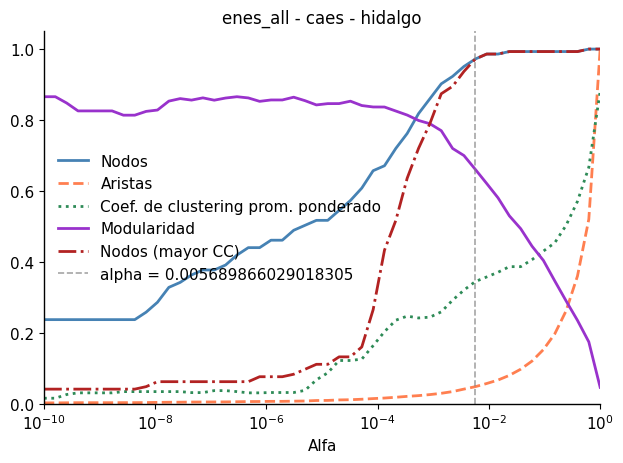
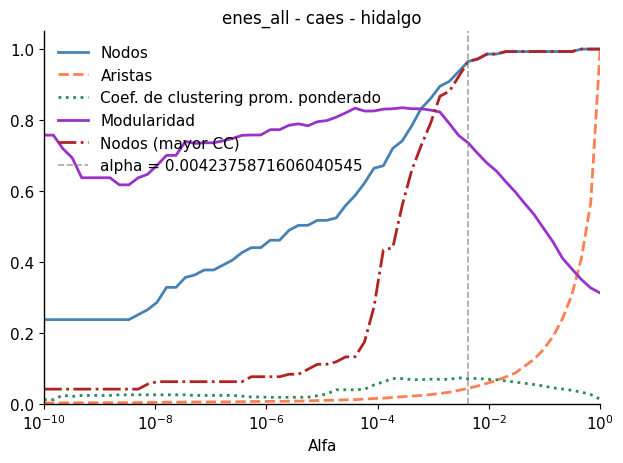
Fix alpha sensitivity script and disparity graph handling

diff --git a/src/graph_construction.py b/src/graph_construction.py
@@ -269,13 +269,13 @@ def get_projection_positions(
 	method: str = "auto",
 ) -> dict:
 	"""Calculate node positions for the projection graph using a force-directed layout.
-	
+
 	Handles both undirected and directed graphs (converts directed to undirected as needed).
 	"""
 	# Convert to undirected if needed (e.g., for directed graphs from disparity_filter_backbone)
 	if isinstance(graph, nx.DiGraph):
 		graph = nx.to_undirected(graph)
-	
+
 	if not nx.is_connected(graph):
 		# Get the largest connected component for layout
 		largest_cc = max(nx.connected_components(graph), key=len)
@@ -317,11 +317,8 @@ def disparity_alpha_endpoint(k: int, strength: float, weight: float) -> float:
 	return float((1.0 - p) ** (k - 1))
 
 
-def get_disparity_graph(
-	graph_in: nx.Graph
-) -> nx.DiGraph:
-	"""Return a disparity backbone as a directed graph.
-	"""
+def get_disparity_graph(graph_in: nx.Graph) -> nx.DiGraph:
+	"""Return a disparity backbone as a directed graph."""
 	if graph_in.number_of_nodes() == 0:
 		return nx.DiGraph()
 
@@ -340,8 +337,8 @@ def get_disparity_graph(
 		a_uv = disparity_alpha_endpoint(degree.get(u, 0), strength.get(u, 0.0), w_uv)
 		a_vu = disparity_alpha_endpoint(degree.get(v, 0), strength.get(v, 0.0), w_uv)
 
-		graph_out.add_edge(u, v, alpha=a_uv)
-		graph_out.add_edge(v, u, alpha=a_vu)
+		graph_out.add_edge(u, v, alpha=a_uv, weight=w_uv)
+		graph_out.add_edge(v, u, alpha=a_vu, weight=w_uv)
 
 	return graph_out
 
@@ -355,11 +352,11 @@ def disparity_filter_backbone(
 ) -> nx.Graph:
 	"""Return a disparity-filtered backbone as an undirected graph.
 
-	For each edge in the input undirected graph, the significance of 
+	For each edge in the input undirected graph, the significance of
 	individual endpoints is checked:
 	- Edge u -> v is significant if a_uv < alpha
 	- Edge v -> u is significant if a_vu < alpha
-	
+
 	With mode="or", at least one direction must pass.
 	With mode="and", both directions must pass.
 	"""
@@ -367,7 +364,7 @@ def disparity_filter_backbone(
 		raise ValueError("mode must be 'or' or 'and'.")
 	if alpha <= 0 or alpha > 1:
 		raise ValueError("alpha must be in (0, 1].")
-	
+
 	if original_graph is None and disparity_graph is None:
 		raise ValueError("Provide at least one of original_graph or disparity_graph.")
 
@@ -383,19 +380,24 @@ def disparity_filter_backbone(
 
 	for u, v in disparity_graph.to_undirected().edges():
 		# Determine which directions pass the threshold
-		u_to_v_passes = disparity_graph.get_edge_data(u, v, default={}).get("alpha", 1) < alpha
-		v_to_u_passes = disparity_graph.get_edge_data(v, u, default={}).get("alpha", 1) < alpha
+		u_to_v_passes = (
+			disparity_graph.get_edge_data(u, v, default={}).get("alpha", 1) < alpha
+		)
+		v_to_u_passes = (
+			disparity_graph.get_edge_data(v, u, default={}).get("alpha", 1) < alpha
+		)
 
 		if mode == "or":
 			# Keep edge if at least one direction passes
 			if u_to_v_passes or v_to_u_passes:
-				edge_data = disparity_graph.get_edge_data(u, v, default=disparity_graph.get_edge_data(v, u))
-				backbone.add_edge(u, v, **edge_data)
+				w_uv = disparity_graph.get_edge_data(u, v, default={}).get("weight", 1)
+				# print(f"Keeping edge ({u}, {v}) with data w_uv={w_uv}, a_uv={disparity_graph.get_edge_data(u, v, default={}).get('alpha', 'N/A')}, a_vu={disparity_graph.get_edge_data(v, u, default={}).get('alpha', 'N/A')}")
+				backbone.add_edge(u, v, weight=w_uv)
 		else:  # mode == "and"
 			# Keep edge only if both directions pass
 			if u_to_v_passes and v_to_u_passes:
-				edge_data = disparity_graph.get_edge_data(u, v, default=disparity_graph.get_edge_data(v, u))
-				backbone.add_edge(u, v, **edge_data)
+				w_uv = disparity_graph.get_edge_data(u, v, default={}).get("weight", 1)
+				backbone.add_edge(u, v, weight=w_uv)
 
 	if not keep_isolates:
 		isolates = [n for n in backbone.nodes() if backbone.degree(n) == 0]

diff --git a/scripts/07_alpha_sensitivity.py b/scripts/07_alpha_sensitivity.py
@@ -32,8 +32,10 @@ def _sweep_alpha(
 	modularities = np.empty(len(alphas), dtype=float)
 	nodes_largest_cc = np.empty(len(alphas), dtype=float)
 
-	disparity_graph = gc.get_disparity_graph(projection) # Precompute disparity graph once for efficiency
-	
+	disparity_graph = gc.get_disparity_graph(
+		projection
+	)  # Precompute disparity graph once for efficiency
+
 	for i, alpha in enumerate(alphas):
 		# FIXME: This is inefficient since it recomputes the disparity graph each time. Refactor to compute once and pass in.
 		backbone = gc.disparity_filter_backbone(
@@ -76,13 +78,11 @@ def _sweep_alpha(
 def main() -> None:
 	plt.style.use("src/styles/publication.mplstyle")
 	projection = nx.read_gexf(snakemake.input[0], node_type=int)
-	output_path = Path(snakemake.output[0])
-	output_path.parent.mkdir(parents=True, exist_ok=True)
 	graph_metrics = metrics.summarize_graph(projection)
 	algorithm = snakemake.wildcards["algorithm"]
 
 	seed = int(snakemake.config["seed"])
-	alphas = np.logspace(-10, 0, 50)
+	alphas = np.logspace(-10, 0, 60)
 	alphas.sort()
 
 	(
@@ -114,7 +114,7 @@ def main() -> None:
 		edge_counts=edge_counts,
 		clustering_coefficients=clustering_coeffs,
 		title=title,
-		output_path=output_path,
+		output_path=Path(snakemake.output[0]),
 		modularities=modularities,
 		nodes_largest_cc=nodes_largest_cc,
 		reference_alpha=reference_alpha,
@@ -122,7 +122,7 @@ def main() -> None:
 		logscale=True,
 	)
 
-	print(f"Saved alpha sensitivity plot to {output_path}.")
+	print(f"Saved alpha sensitivity plot to {Path(snakemake.output[0])}.")
 
 	log_lines: list[str] = []
 	log_lines.append("=" * 60)

diff --git a/scripts/utils/filter_projection.py b/scripts/utils/filter_projection.py
@@ -52,7 +52,9 @@ def main() -> None:
 
 	pl.plot_backbone_weight_histogram(
 		original_weights=[d["weight"] for _, _, d in graph.edges(data=True)],
-		backbone_weights=[d["weight"] for _, _, d in backbone_undirected.edges(data=True)],
+		backbone_weights=[
+			d["weight"] for _, _, d in backbone_undirected.edges(data=True)
+		],
 		alpha=alpha,
 		title_prefix=None,
 		output_path=Path(snakemake.output[1]),
